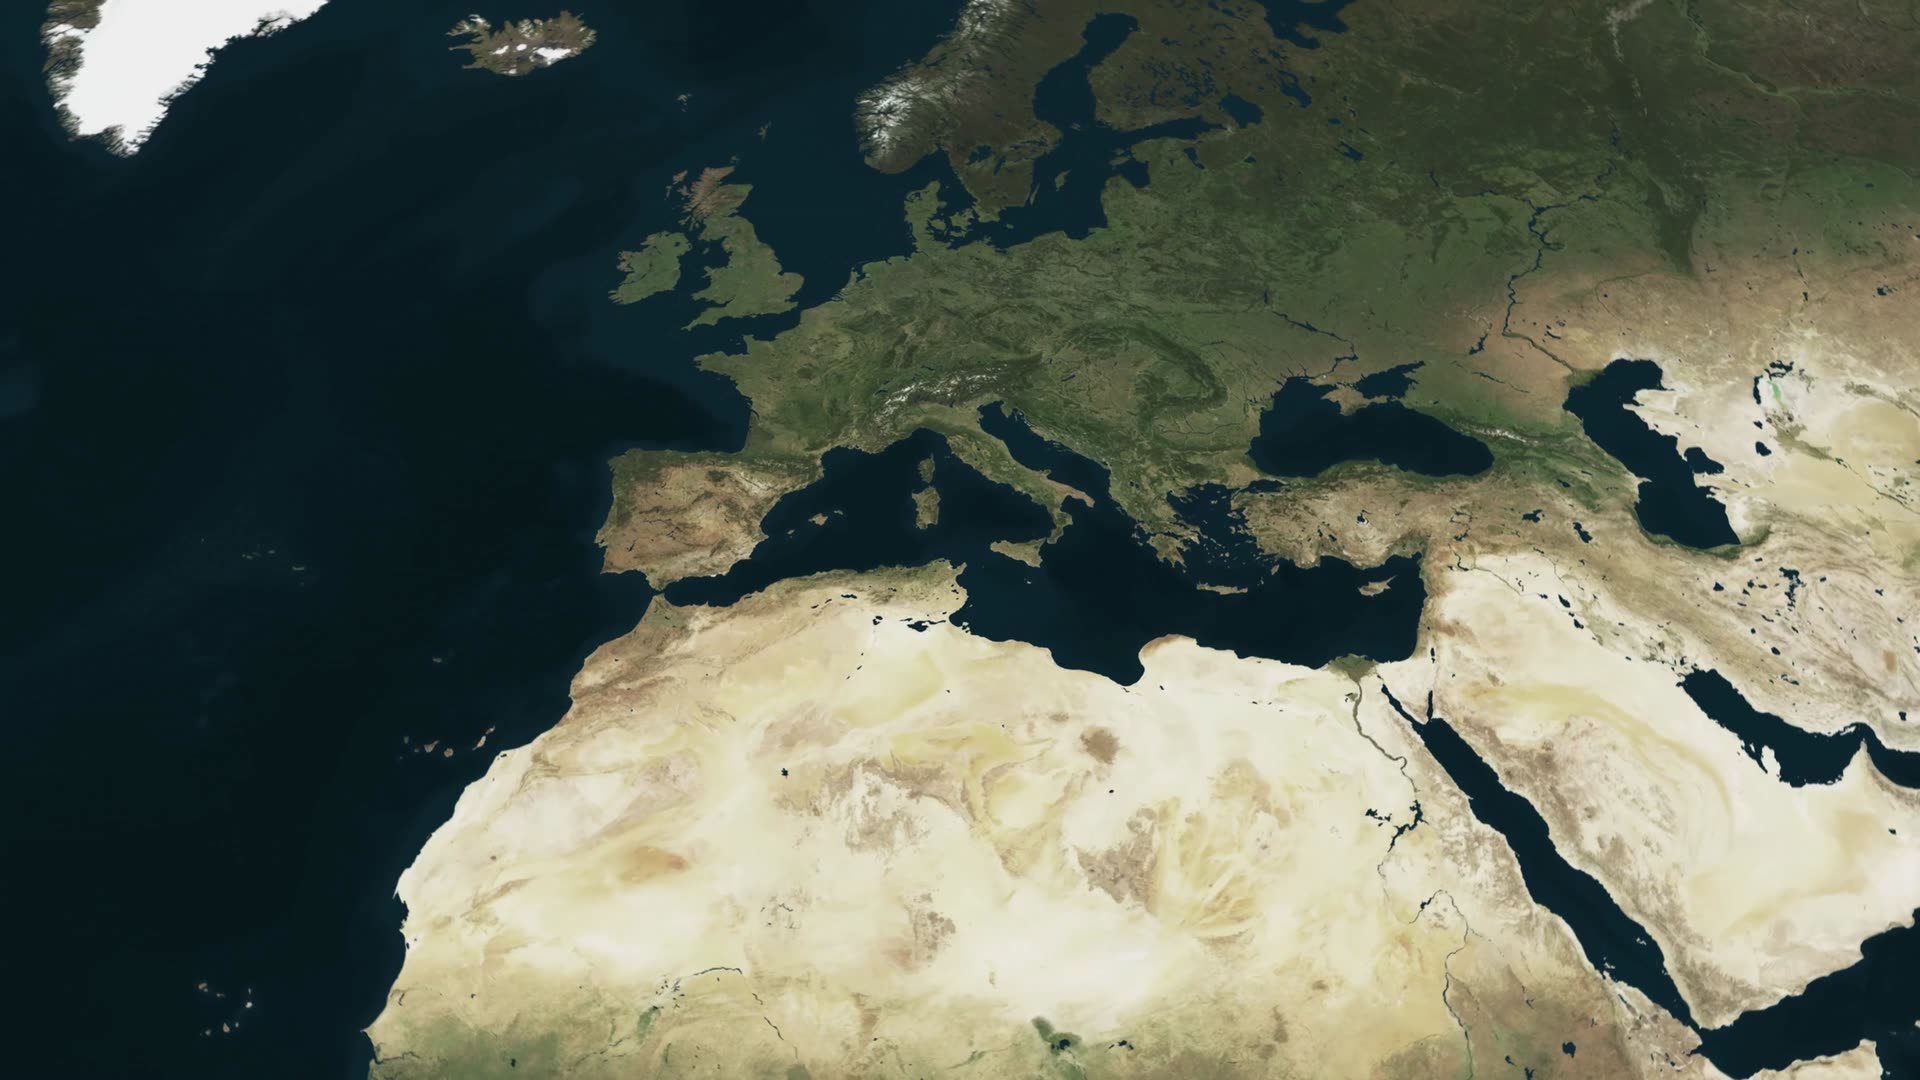
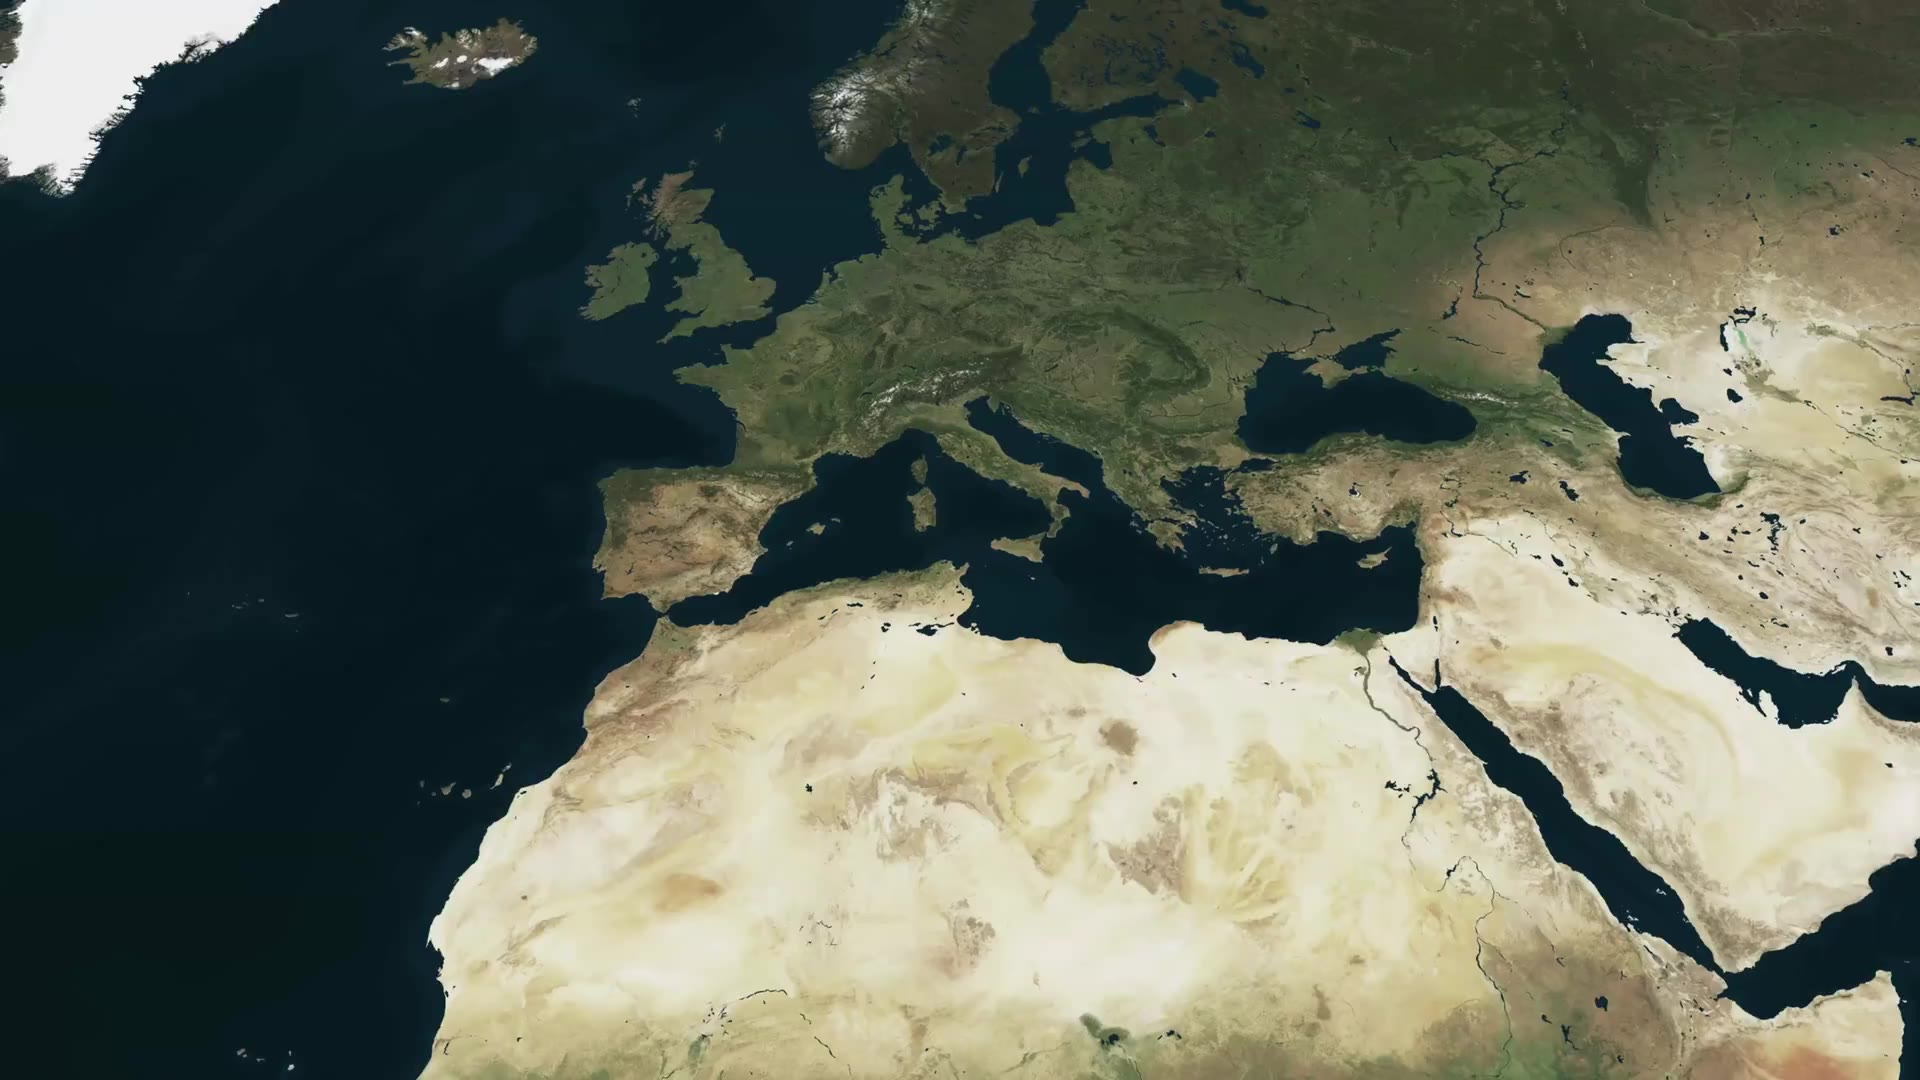
chore(site): sync landing page from the plugin repository

diff --git a/go-atlas/fonts.css b/go-atlas/fonts.css
@@ -18,9 +18,11 @@
  * contient un caractère de sa plage, donc les inclure ne coûtait rien au visiteur — mais les
  * omettre garde le dépôt honnête sur ce qu'il embarque. 180 Ko au total.
  *
- * `font-display: swap` est conservé tel que Google le servait : le texte s'affiche
- * immédiatement dans la police de repli, puis bascule. Un titre invisible pendant trois
- * secondes est pire qu'un titre qui change de police.
+ * `font-display: block`, et non `swap` comme Google le servait. Avec `swap` le texte s'affiche
+ * d'abord dans la police de repli puis BASCULE : mesuré, chaque largeur de texte change (le
+ * menu de 14 px, le badge « SAVE », les prix), et la page sautille juste après l'ouverture.
+ * Ici les fichiers sont sur le même serveur et préchargés (`<link rel="preload">`), donc la
+ * période d'invisibilité de `block` se compte en dizaines de millisecondes, pas en secondes.
  */
 
 /* Inter — latin */
@@ -28,7 +30,7 @@
     font-family: 'Inter';
     font-style: normal;
     font-weight: 400 900;
-    font-display: swap;
+    font-display: block;
     src: url(fonts/inter-latin.woff2) format('woff2');
     unicode-range: U+0000-00FF, U+0131, U+0152-0153, U+02BB-02BC, U+02C6, U+02DA, U+02DC, U+0304, U+0308, U+0329, U+2000-206F, U+20AC, U+2122, U+2191, U+2193, U+2212, U+2215, U+FEFF, U+FFFD;
 }
@@ -38,7 +40,7 @@
     font-family: 'Inter';
     font-style: normal;
     font-weight: 400 900;
-    font-display: swap;
+    font-display: block;
     src: url(fonts/inter-latin-ext.woff2) format('woff2');
     unicode-range: U+0100-02BA, U+02BD-02C5, U+02C7-02CC, U+02CE-02D7, U+02DD-02FF, U+0304, U+0308, U+0329, U+1D00-1DBF, U+1E00-1E9F, U+1EF2-1EFF, U+2020, U+20A0-20AB, U+20AD-20C0, U+2113, U+2C60-2C7F, U+A720-A7FF;
 }
@@ -48,7 +50,7 @@
     font-family: 'JetBrains Mono';
     font-style: normal;
     font-weight: 400 500;
-    font-display: swap;
+    font-display: block;
     src: url(fonts/jetbrains-mono-latin.woff2) format('woff2');
     unicode-range: U+0000-00FF, U+0131, U+0152-0153, U+02BB-02BC, U+02C6, U+02DA, U+02DC, U+0304, U+0308, U+0329, U+2000-206F, U+20AC, U+2122, U+2191, U+2193, U+2212, U+2215, U+FEFF, U+FFFD;
 }
@@ -58,7 +60,7 @@
     font-family: 'JetBrains Mono';
     font-style: normal;
     font-weight: 400 500;
-    font-display: swap;
+    font-display: block;
     src: url(fonts/jetbrains-mono-latin-ext.woff2) format('woff2');
     unicode-range: U+0100-02BA, U+02BD-02C5, U+02C7-02CC, U+02CE-02D7, U+02DD-02FF, U+0304, U+0308, U+0329, U+1D00-1DBF, U+1E00-1E9F, U+1EF2-1EFF, U+2020, U+20A0-20AB, U+20AD-20C0, U+2113, U+2C60-2C7F, U+A720-A7FF;
 }

diff --git a/go-atlas/styles.css b/go-atlas/styles.css
@@ -2808,3 +2808,22 @@ main > section:not(.hero).pricing {
 @media (max-width: 900px) {
     .legal-layout { padding-top: 40px; }
 }
+
+/* THE PRICE CARDS DO NOT MOVE OR GROW ON HOVER. They are laid out side by side and centred as a block; reaching this page from
+   the home page leaves the pointer over one of them, and a moment after load that card rose (4px for Early access, 6px for
+   Lifetime) and its shadow swelled, so it looked as if it had suddenly grown while the other stayed put. Only the border answers
+   the pointer now. */
+.pricing-card:hover {
+    transform: none;
+    box-shadow:
+        0 18px 42px rgba(0, 0, 0, 0.38),
+        inset 0 1px 0 rgba(233, 221, 200, 0.07);
+}
+.pricing-card--early:hover {
+    transform: none;
+    box-shadow: 0 18px 46px rgba(0, 0, 0, 0.42);
+}
+
+/* THE SEAT COUNT ARRIVES FROM THE NETWORK, after the page is drawn. It fades in rather than popping into the title. */
+.seats-left { animation: seats-in 0.4s ease both; }
+@keyframes seats-in { from { opacity: 0; } to { opacity: 1; } }

diff --git a/shared/css/site.css b/shared/css/site.css
@@ -6,7 +6,7 @@
     font-family: 'Inter';
     font-style: normal;
     font-weight: 400 900;
-    font-display: swap;
+    font-display: block;
     src: url(../fonts/inter-latin.woff2) format('woff2');
     unicode-range: U+0000-00FF, U+0131, U+0152-0153, U+02BB-02BC, U+02C6, U+02DA, U+02DC, U+0304, U+0308, U+0329, U+2000-206F, U+20AC, U+2122, U+2191, U+2193, U+2212, U+2215, U+FEFF, U+FFFD;
 }
@@ -14,7 +14,7 @@
     font-family: 'Inter';
     font-style: normal;
     font-weight: 400 900;
-    font-display: swap;
+    font-display: block;
     src: url(../fonts/inter-latin-ext.woff2) format('woff2');
     unicode-range: U+0100-02BA, U+02BD-02C5, U+02C7-02CC, U+02CE-02D7, U+02DD-02FF, U+0304, U+0308, U+0329, U+1D00-1DBF, U+1E00-1E9F, U+1EF2-1EFF, U+2020, U+20A0-20AB, U+20AD-20C0, U+2113, U+2C60-2C7F, U+A720-A7FF;
 }

diff --git a/go-glow/index.html b/go-glow/index.html
@@ -14,6 +14,7 @@
 
     <link rel="icon" type="image/svg+xml" href="../shared/img/favicon.svg">
     <link rel="preload" href="../go-atlas/fonts/inter-latin.woff2" as="font" type="font/woff2" crossorigin>
+    <link rel="preload" href="../go-atlas/fonts/jetbrains-mono-latin.woff2" as="font" type="font/woff2" crossorigin>
     <link rel="stylesheet" href="../go-atlas/fonts.css">
     <link rel="stylesheet" href="../go-atlas/styles.css?v=20260629-player7">
     <link rel="stylesheet" href="../shared/css/product-page.css">

diff --git a/go-motion-blur/index.html b/go-motion-blur/index.html
@@ -14,6 +14,7 @@
 
     <link rel="icon" type="image/svg+xml" href="../shared/img/favicon.svg">
     <link rel="preload" href="../go-atlas/fonts/inter-latin.woff2" as="font" type="font/woff2" crossorigin>
+    <link rel="preload" href="../go-atlas/fonts/jetbrains-mono-latin.woff2" as="font" type="font/woff2" crossorigin>
     <link rel="stylesheet" href="../go-atlas/fonts.css">
     <link rel="stylesheet" href="../go-atlas/styles.css?v=20260629-player7">
     <link rel="stylesheet" href="../shared/css/product-page.css">

diff --git a/go-atlas/documents/legal.html b/go-atlas/documents/legal.html
@@ -8,6 +8,7 @@
     <link rel="icon" type="image/png" sizes="512x512" href="../assets/icone.png">
     <link rel="apple-touch-icon" href="../assets/icone.png">
     <link rel="preload" href="../fonts/inter-latin.woff2" as="font" type="font/woff2" crossorigin>
+    <link rel="preload" href="../fonts/jetbrains-mono-latin.woff2" as="font" type="font/woff2" crossorigin>
     <link rel="stylesheet" href="../fonts.css">
     <link rel="stylesheet" href="../styles.css?v=20260527-btns2">
     <style>

diff --git a/go-atlas/index.html b/go-atlas/index.html
@@ -130,6 +130,7 @@
     <link rel="apple-touch-icon" href="assets/icone.png">
 
     <link rel="preload" href="fonts/inter-latin.woff2" as="font" type="font/woff2" crossorigin>
+    <link rel="preload" href="fonts/jetbrains-mono-latin.woff2" as="font" type="font/woff2" crossorigin>
     <link rel="stylesheet" href="fonts.css">
 
     <link rel="stylesheet" href="styles.css?v=20260629-player7">
